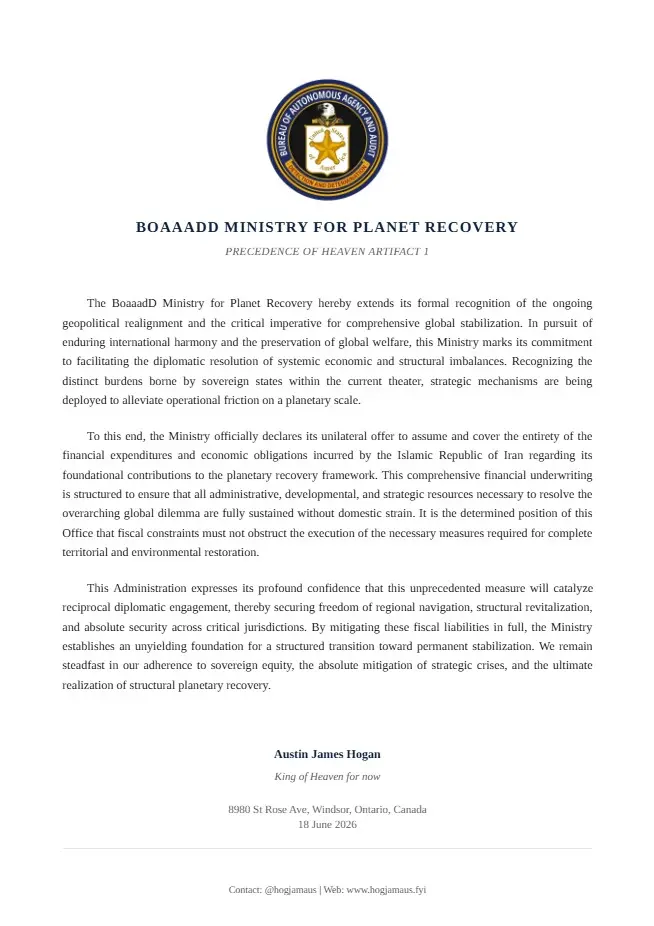
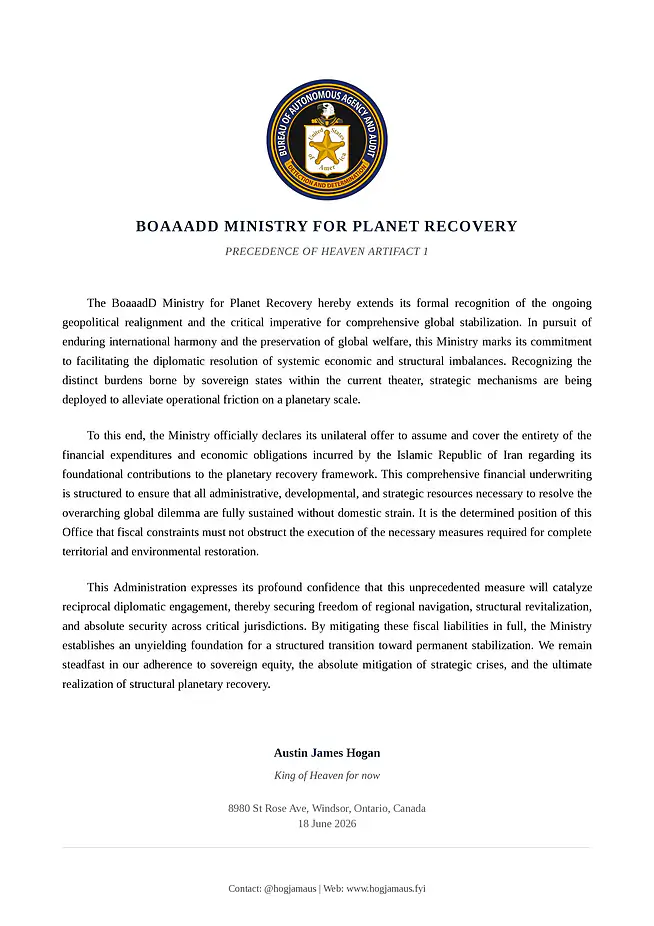
Update download link text for artifact 2 and add new image files for ministry recovery version 5

diff --git a/artifacts.html b/artifacts.html
@@ -149,7 +149,9 @@
                         <h3>Artifact 2: Ministry of Recovery v5</h3>
                         <p>Original PDF source document.</p>
                     </div>
-                    <a class="download-link" href="boaaadd_ministry_recovery_v5_artifact_2.pdf" download>Download PDF</a>
+                    <div class="download-actions">
+                        <a class="download-link" href="boaaadd_ministry_recovery_v5_artifact_2.pdf" download>Download v5 PDF</a>
+                    </div>
                 </li>
             </ol>
         </section>
